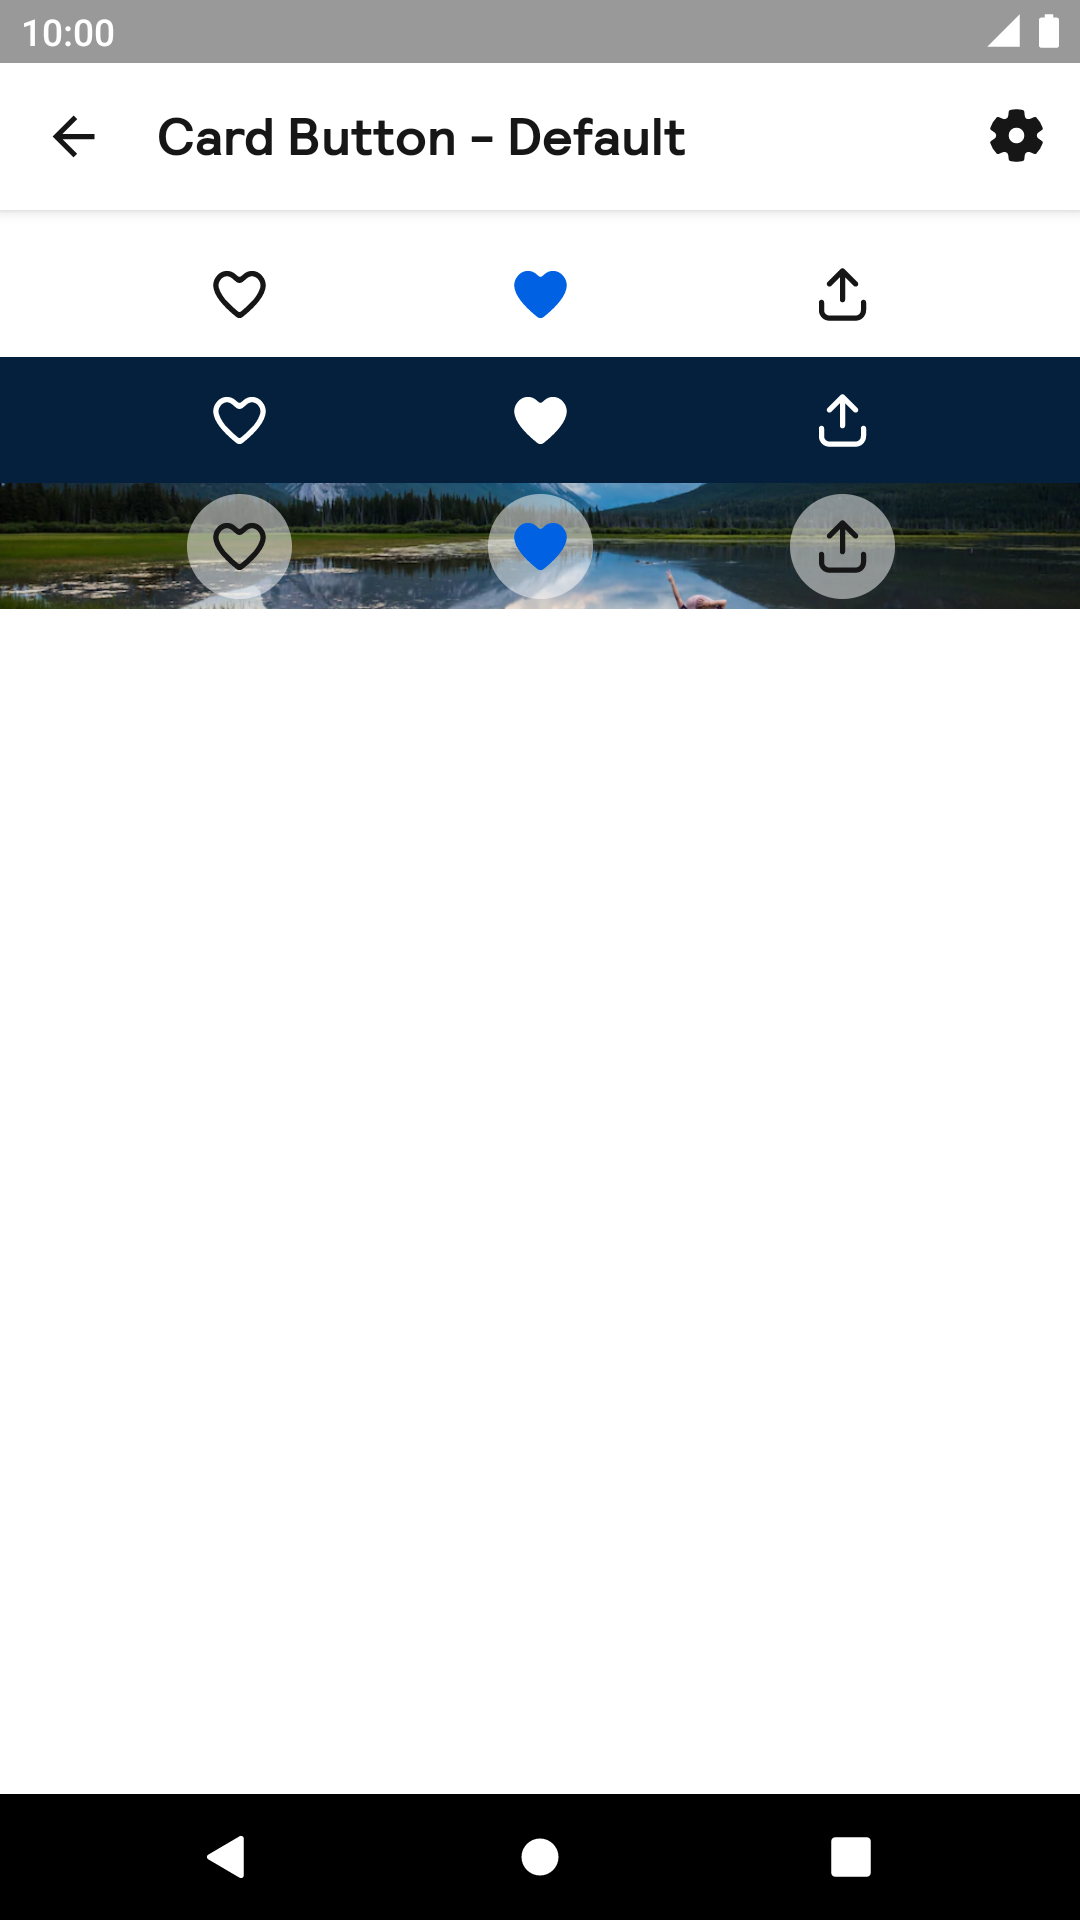
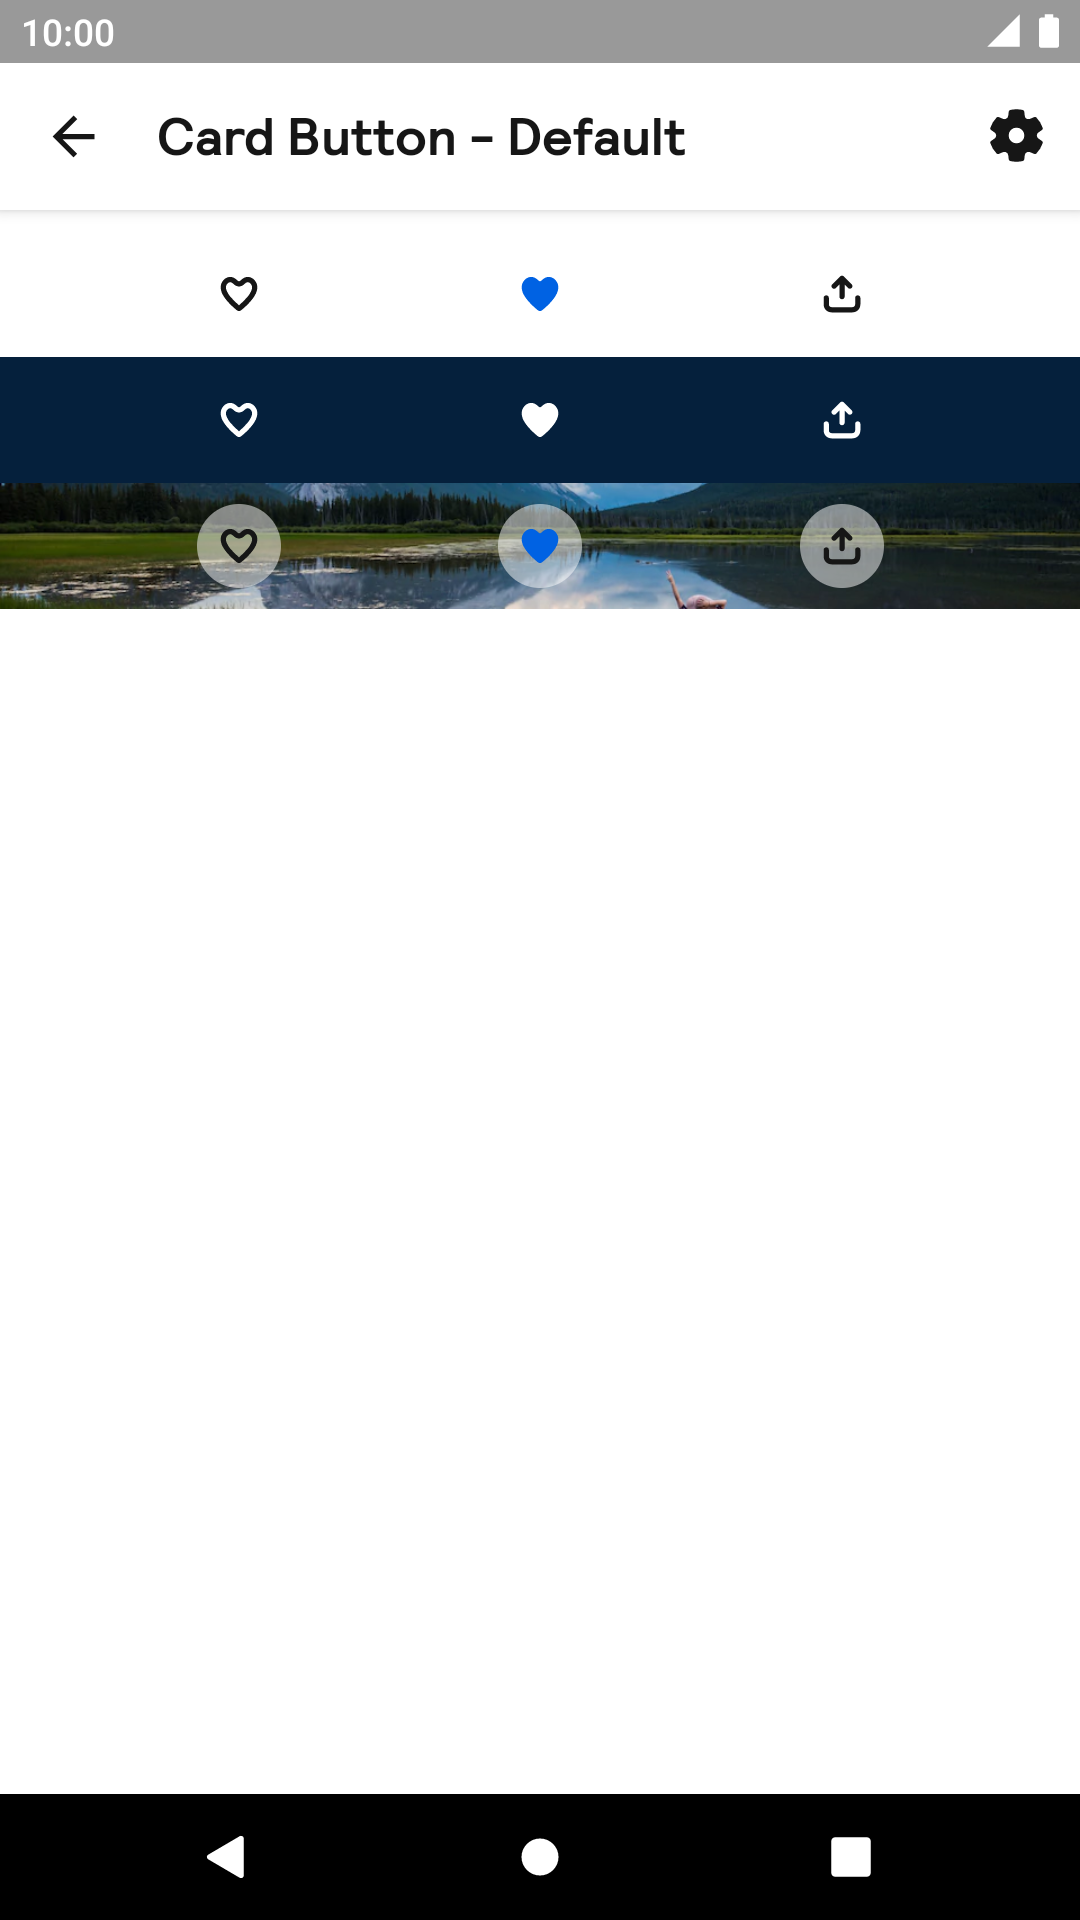
Updated CardButton API

Changed region(s): [[0.1528, 0.125, 0.275, 0.3125], [0.4583, 0.125, 0.55, 0.3125], [0.7333, 0.125, 0.825, 0.3125]]

diff --git a/backpack-compose/src/main/kotlin/net/skyscanner/backpack/compose/cardbutton/internal/BpkCardButtonImpl.kt b/backpack-compose/src/main/kotlin/net/skyscanner/backpack/compose/cardbutton/internal/BpkCardButtonImpl.kt
@@ -59,13 +59,13 @@ private enum class BpkCardButtonState {
 }
 
 @Composable
-fun BpkSaveCardButtonImpl(
+internal fun BpkSaveCardButtonImpl(
   checked: Boolean,
   contentDescription: String,
   onCheckedChange: (Boolean) -> Unit,
+  size: BpkCardButtonSize,
+  style: BpkCardButtonStyle,
   modifier: Modifier = Modifier,
-  size: BpkCardButtonSize = BpkCardButtonSize.Default,
-  style: BpkCardButtonStyle = BpkCardButtonStyle.Default,
 ) {
   var state by remember { mutableStateOf(BpkCardButtonState.Rest) }
   val scaleAnimation = remember { Animatable(1f) }
@@ -103,7 +103,7 @@ fun BpkSaveCardButtonImpl(
     Box(
       modifier = Modifier
         .clip(shape = CircleShape)
-        .size(if (size == BpkCardButtonSize.Default) BpkSpacing.Xxl else BpkSpacing.Xl)
+        .size(if (size == BpkCardButtonSize.Large) BpkSpacing.Xxl else BpkSpacing.Xl)
         .background(
           color = when (style) {
             BpkCardButtonStyle.Contained -> BpkTheme.colors.surfaceDefault.copy(alpha = 0.5F)
@@ -118,7 +118,7 @@ fun BpkSaveCardButtonImpl(
               role = Role.Switch,
               onValueChange = { checked ->
                 if (checked) state = BpkCardButtonState.Transition
-                onCheckedChange.invoke(checked)
+                onCheckedChange(checked)
               },
             )
           } else Modifier,
@@ -129,7 +129,7 @@ fun BpkSaveCardButtonImpl(
         BpkIcon(
           icon = if (checked) BpkIcon.Heart else BpkIcon.HeartOutline,
           contentDescription = null,
-          size = if (size == BpkCardButtonSize.Default) BpkIconSize.Large else BpkIconSize.Small,
+          size = if (size == BpkCardButtonSize.Large) BpkIconSize.Large else BpkIconSize.Small,
           tint = colorAnimation,
         )
       }
@@ -138,12 +138,12 @@ fun BpkSaveCardButtonImpl(
 }
 
 @Composable
-fun BpkShareCardButtonImpl(
+internal fun BpkShareCardButtonImpl(
   contentDescription: String,
   onClick: () -> Unit,
+  size: BpkCardButtonSize,
+  style: BpkCardButtonStyle,
   modifier: Modifier = Modifier,
-  size: BpkCardButtonSize = BpkCardButtonSize.Default,
-  style: BpkCardButtonStyle = BpkCardButtonStyle.Default,
 ) {
   Box(
     modifier = modifier.size(BpkSpacing.Xxl + BpkSpacing.Md),
@@ -152,7 +152,7 @@ fun BpkShareCardButtonImpl(
     Box(
       modifier = Modifier
         .clip(shape = CircleShape)
-        .size(if (size == BpkCardButtonSize.Default) BpkSpacing.Xxl else BpkSpacing.Xl)
+        .size(if (size == BpkCardButtonSize.Large) BpkSpacing.Xxl else BpkSpacing.Xl)
         .background(
           color = when (style) {
             BpkCardButtonStyle.Contained -> BpkTheme.colors.surfaceDefault.copy(alpha = 0.5F)
@@ -166,7 +166,7 @@ fun BpkShareCardButtonImpl(
         modifier = Modifier,
         icon = BpkIcon.ShareIos,
         contentDescription = contentDescription,
-        size = if (size == BpkCardButtonSize.Default) BpkIconSize.Large else BpkIconSize.Small,
+        size = if (size == BpkCardButtonSize.Large) BpkIconSize.Large else BpkIconSize.Small,
         tint = when (style) {
           BpkCardButtonStyle.OnDark -> BpkTheme.colors.textOnDark
           else -> BpkTheme.colors.textPrimary

diff --git a/app/src/main/java/net/skyscanner/backpack/demo/data/ComponentRegistry.kt b/app/src/main/java/net/skyscanner/backpack/demo/data/ComponentRegistry.kt
@@ -34,8 +34,8 @@ import net.skyscanner.backpack.demo.compose.CalendarSelectionDisabledStory
 import net.skyscanner.backpack.demo.compose.CalendarSelectionRangeStory
 import net.skyscanner.backpack.demo.compose.CalendarSelectionSingleStory
 import net.skyscanner.backpack.demo.compose.CalendarSelectionWholeMonthStory
-import net.skyscanner.backpack.demo.compose.CardButtonDefaultStory
-import net.skyscanner.backpack.demo.compose.CardButtonSmallStory
+import net.skyscanner.backpack.demo.compose.CardButtonStoryLarge
+import net.skyscanner.backpack.demo.compose.CardButtonStoryDefault
 import net.skyscanner.backpack.demo.compose.CardStory
 import net.skyscanner.backpack.demo.compose.CardWrapperStory
 import net.skyscanner.backpack.demo.compose.CarouselStory
@@ -263,8 +263,8 @@ object ComponentRegistry {
     "Card Button" story NodeData(
       { children -> SubStory of children },
       mapOf(
-        "Default" composeStory { CardButtonDefaultStory() },
-        "Small" composeStory { CardButtonSmallStory() },
+        "Default" composeStory { CardButtonStoryDefault() },
+        "Large" composeStory { CardButtonStoryLarge() },
       ),
     ),
     "Carousel" composeStory { CarouselStory() },

diff --git a/app/src/main/java/net/skyscanner/backpack/demo/compose/CardButtonsStory.kt b/app/src/main/java/net/skyscanner/backpack/demo/compose/CardButtonsStory.kt
@@ -50,14 +50,14 @@ import net.skyscanner.backpack.demo.meta.ComposeStory
 @Composable
 @CardButtonComponent
 @ComposeStory("Default")
-fun CardButtonDefaultStory(modifier: Modifier = Modifier) =
-  CardButtonsDemo(BpkCardButtonSize.Default, modifier)
+fun CardButtonStoryDefault(modifier: Modifier = Modifier) =
+  CardButtonsDemo(size = BpkCardButtonSize.Default, modifier)
 
 @Composable
 @CardButtonComponent
-@ComposeStory("Small")
-fun CardButtonSmallStory(modifier: Modifier = Modifier) =
-  CardButtonsDemo(size = BpkCardButtonSize.Small, modifier)
+@ComposeStory("Large")
+fun CardButtonStoryLarge(modifier: Modifier = Modifier) =
+  CardButtonsDemo(BpkCardButtonSize.Large, modifier)
 
 @Composable
 private fun CardButtonsDemo(

diff --git a/app/src/androidTest/java/net/skyscanner/backpack/docs/DocsRegistry.kt b/app/src/androidTest/java/net/skyscanner/backpack/docs/DocsRegistry.kt
@@ -76,7 +76,7 @@ object DocsRegistry {
     ComposeScreenshot("Card - Compose - Divided card", "divided-card"),
     ComposeScreenshot("Card - Compose - Card wrapper", "card-wrapper"),
     ComposeScreenshot("Card Button - Default", "default"),
-    ComposeScreenshot("Card Button - Small", "small"),
+    ComposeScreenshot("Card Button - Large", "large"),
     ComposeScreenshot("Carousel", "default"),
     ViewScreenshot("Chip - View - Default", "all"),
     ViewScreenshot("Chip - View - On Dark", "on-dark"),

diff --git a/backpack-compose/src/main/kotlin/net/skyscanner/backpack/compose/cardbutton/BpkCardButton.kt b/backpack-compose/src/main/kotlin/net/skyscanner/backpack/compose/cardbutton/BpkCardButton.kt
@@ -31,7 +31,7 @@ enum class BpkCardButtonStyle {
 
 enum class BpkCardButtonSize {
   Default,
-  Small,
+  Large,
 }
 
 @Composable

diff --git a/docs/compose/CardButton/README.md b/docs/compose/CardButton/README.md
@@ -10,11 +10,11 @@
 |--------------------------------------------------------------------------------------------------------------------------------------------------------------------------|-----------------------------------------------------------------------------------------------------------------------------------------------------------------------------------------|
 | <img src="https://raw.githubusercontent.com/Skyscanner/backpack-android/main/docs/compose/CardButton/screenshots/default.png" alt="Card Button component" width="375" /> | <img src="https://raw.githubusercontent.com/Skyscanner/backpack-android/main/docs/compose/CardButton/screenshots/default_dm.png" alt="Card Button component - dark mode" width="375" /> |
 
-## Small
+## Large
 
 | Day                                                                                                                                                                          | Night                                                                                                                                                                                       |
 |------------------------------------------------------------------------------------------------------------------------------------------------------------------------------|---------------------------------------------------------------------------------------------------------------------------------------------------------------------------------------------|
-| <img src="https://raw.githubusercontent.com/Skyscanner/backpack-android/main/docs/compose/CardButton/screenshots/small.png" alt="Small Card Button component" width="375" /> | <img src="https://raw.githubusercontent.com/Skyscanner/backpack-android/main/docs/compose/CardButton/screenshots/small_dm.png" alt="Small Card Button component - dark mode" width="375" /> |
+| <img src="https://raw.githubusercontent.com/Skyscanner/backpack-android/main/docs/compose/CardButton/screenshots/large.png" alt="Large Card Button component" width="375" /> | <img src="https://raw.githubusercontent.com/Skyscanner/backpack-android/main/docs/compose/CardButton/screenshots/large_dm.png" alt="Large Card Button component - dark mode" width="375" /> |
 
 ## Installation
 
@@ -27,11 +27,11 @@ Example of a Save Button on light background:
 ```Kotlin
 import net.skyscanner.backpack.compose.cardbutton.BpkSaveButton
 
-var checked1 by remember { mutableStateOf(false) }
+var checked by remember { mutableStateOf(false) }
 BpkSaveButton(
-  checked = checked1,
+  checked = checked,
   contentDescription = "",
-  onCheckedChange = { checked1 = !checked1 }
+  onCheckedChange = { checked = it }
 )
 ```
 
@@ -43,7 +43,7 @@ import net.skyscanner.backpack.compose.cardbutton.BpkCardButtonSize
 import net.skyscanner.backpack.compose.cardbutton.BpkCardButtonStyle
 
 BpkShareButton(
-  size = BpkCardButtonSize.Small,
+  size = BpkCardButtonSize.Default,
   style = BpkCardButtonStyle.Contained,
   contentDescription = "",
   onClick = {}
